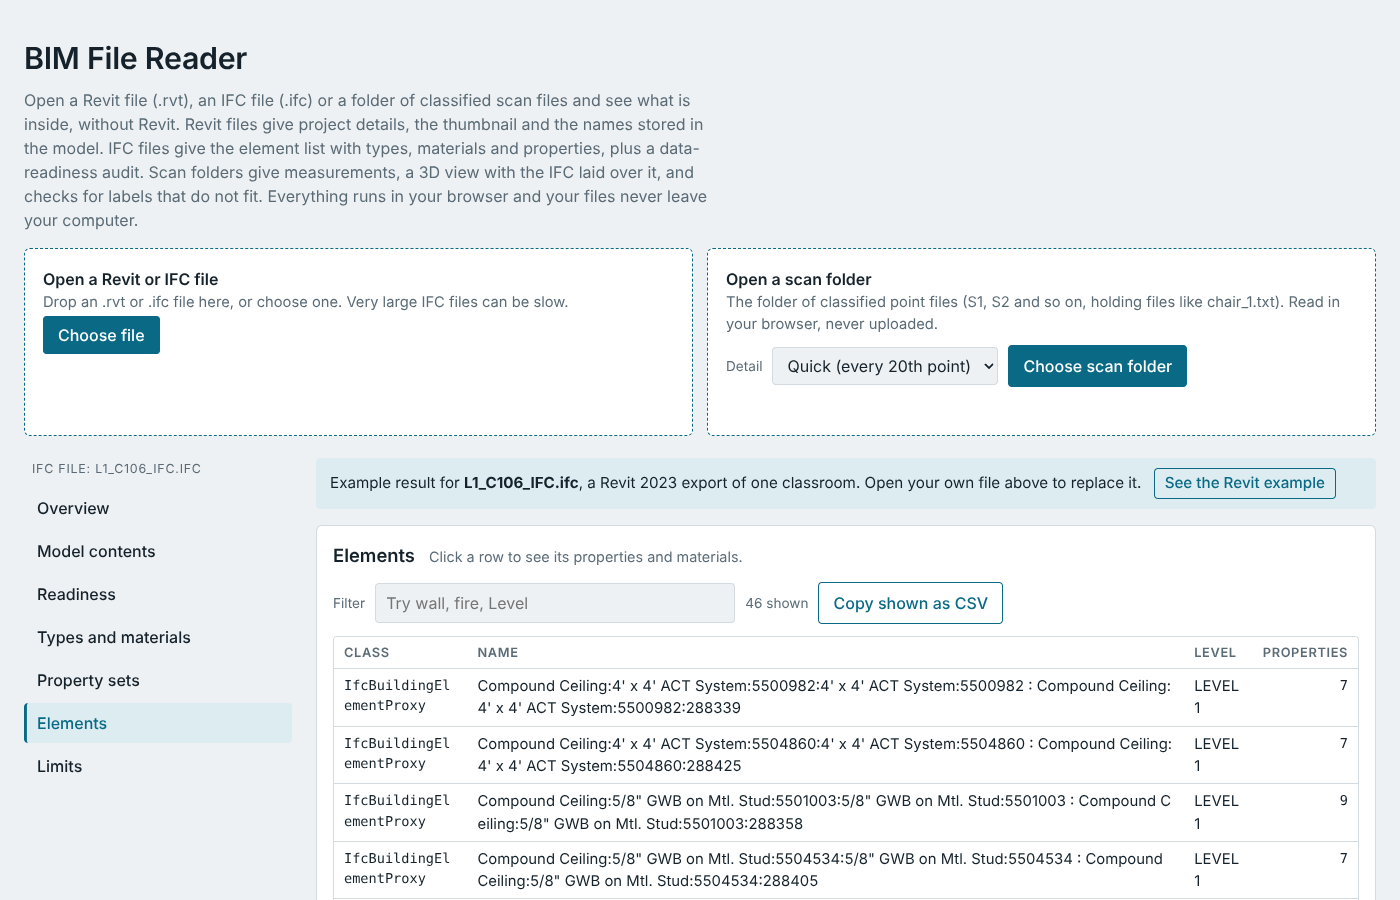
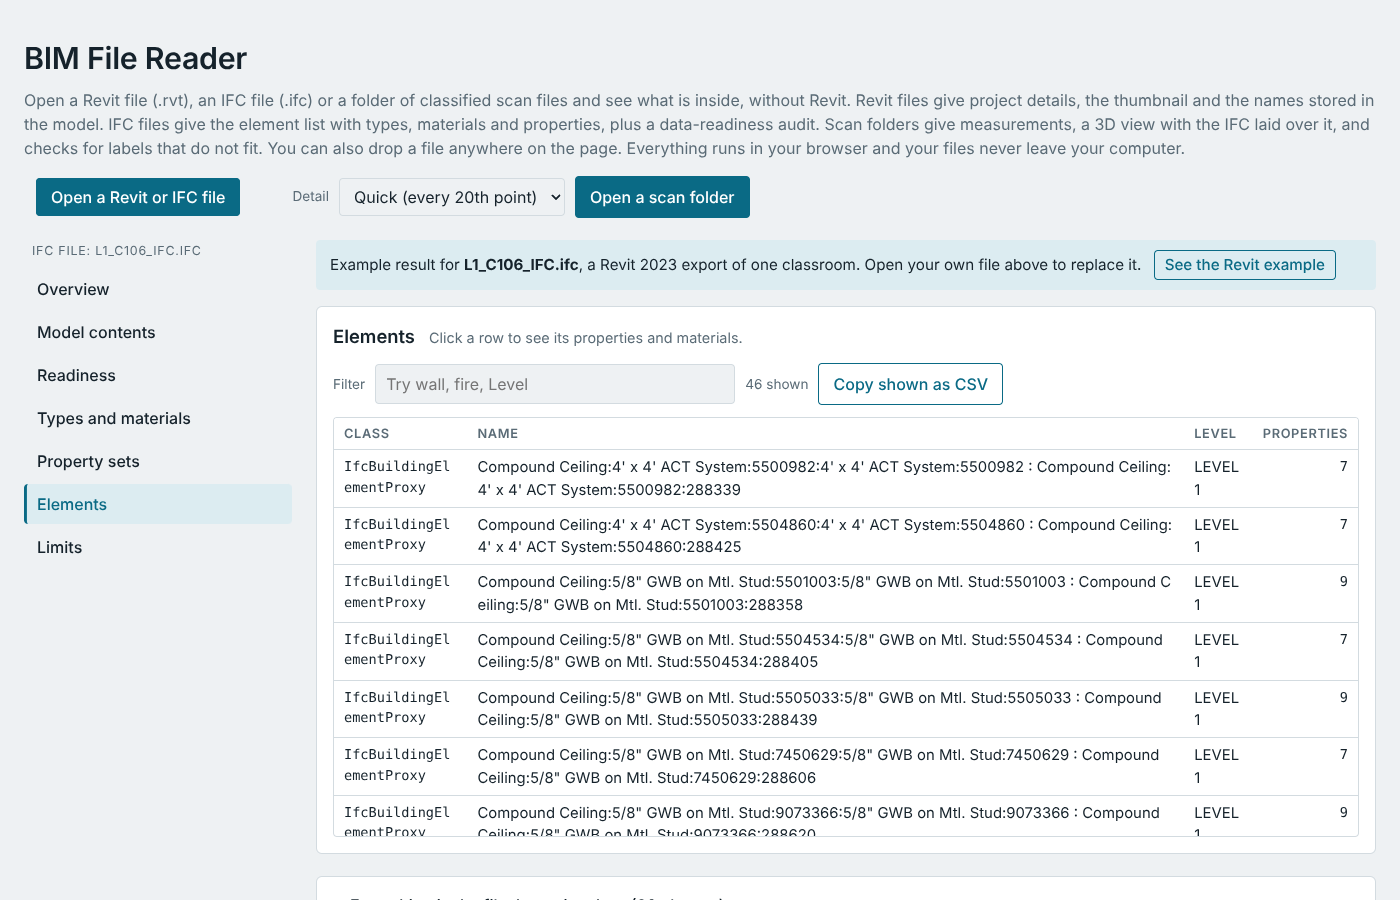
Replace header boxes with toolbar buttons; move 3D click hint under the image
Claude-Session: https://claude.ai/code/session_01EhrZVCndNZQfJK6kUnVYUM

diff --git a/dist/index.html b/dist/index.html
@@ -115,14 +115,19 @@ details summary { cursor: pointer; font-weight: 500; }
 .app { display: grid; grid-template-columns: 270px minmax(0, 1fr); gap: 22px; align-items: start; }
 .side { position: sticky; top: 14px; max-height: calc(100vh - 28px); overflow-y: auto; display: flex; flex-direction: column; gap: 14px; padding-right: 2px; }
 .main { min-width: 0; }
-.openrow { display: grid; grid-template-columns: repeat(2, minmax(0, 1fr)); gap: 14px; margin-top: 16px; }
-.openrow .drop { flex-direction: column; align-items: flex-start; justify-content: flex-start; gap: 10px; }
-.openrow .drop > div { flex: none !important; width: 100%; }
-header.loaded .lede, header.loaded .drop .hint { display: none; }
+.openrow { display: flex; flex-wrap: wrap; align-items: center; gap: 10px 28px; margin-top: 16px; }
+.openrow .drop { background: none; border: 0; padding: 0; border-radius: 4px; display: flex; flex-wrap: wrap; align-items: center; justify-content: flex-start; gap: 6px 12px; }
+.openrow .drop.over { outline: 2px dashed var(--accent); outline-offset: 4px; }
+.openrow .drop > div { flex: none !important; }
+.openrow .ttl, .openrow .hint { display: none; }
+.openrow .status:empty { display: none; }
+.openrow .status { min-height: 0; }
+.openrow .progress { width: 220px; }
+header .lede { max-width: none; }
+header.loaded .lede { display: none; }
 header.loaded .openrow { margin-top: 10px; }
-header.loaded .drop { padding: 10px 14px; }
 .now { font-weight: 600; overflow-wrap: anywhere; }
-.now small { display: block; font-weight: 400; color: var(--muted); }
+.now small { font-weight: 400; color: var(--muted); margin-left: 8px; }
 .nav { display: flex; flex-direction: column; gap: 3px; }
 .navtitle { font-size: 0.78rem; text-transform: uppercase; letter-spacing: 0.06em; color: var(--muted); padding: 2px 8px 6px; overflow-wrap: anywhere; }
 .navbtn { display: flex; justify-content: space-between; align-items: center; gap: 8px; text-align: left; width: 100%; background: transparent; color: var(--fg); border: 0; border-left: 3px solid transparent; border-radius: 4px; padding: 8px 10px; font-weight: 500; }
@@ -135,11 +140,14 @@ header.loaded .drop { padding: 10px 14px; }
 .screen[hidden] { display: none; }
 .v2 { display: grid; grid-template-columns: minmax(0, 1fr) 300px; gap: 12px; align-items: start; }
 .v2 .selbox { margin-top: 0; }
+.v2:has(.selbox[hidden]) { grid-template-columns: minmax(0, 1fr); }
 @media (max-width: 1150px) { .v2 { grid-template-columns: minmax(0, 1fr); } .v2 .selbox { margin-top: 10px; } }
 @media (max-width: 900px) {
   .app { grid-template-columns: minmax(0, 1fr); }
-  .openrow { grid-template-columns: minmax(0, 1fr); }
   .side { position: static; max-height: none; overflow: visible; }
+  .openrow { flex-direction: column; align-items: stretch; }
+  .openrow .drop, .openrow .drop > div { min-width: 0; max-width: 100%; }
+  .openrow .search { max-width: 100%; }
   .nav { flex-direction: row; overflow-x: auto; gap: 6px; padding-bottom: 4px; }
   .navtitle { display: none; }
   .navbtn { width: auto; white-space: nowrap; border: 1px solid var(--rule); border-left-width: 1px; }
@@ -161,7 +169,7 @@ tr.det td { background: var(--bg); }
 <div class="wrap">
   <header>
     <h1>BIM File Reader</h1>
-    <p class="lede">Open a Revit file (.rvt), an IFC file (.ifc) or a folder of classified scan files and see what is inside, without Revit. Revit files give project details, the thumbnail and the names stored in the model. IFC files give the element list with types, materials and properties, plus a data-readiness audit. Scan folders give measurements, a 3D view with the IFC laid over it, and checks for labels that do not fit. Everything runs in your browser and your files never leave your computer.</p>
+    <p class="lede">Open a Revit file (.rvt), an IFC file (.ifc) or a folder of classified scan files and see what is inside, without Revit. Revit files give project details, the thumbnail and the names stored in the model. IFC files give the element list with types, materials and properties, plus a data-readiness audit. Scan folders give measurements, a 3D view with the IFC laid over it, and checks for labels that do not fit. You can also drop a file anywhere on the page. Everything runs in your browser and your files never leave your computer.</p>
   <div class="openrow" id="openrow">
   <div class="drop" id="drop">
     <div>
@@ -169,7 +177,7 @@ tr.det td { background: var(--bg); }
       <div class="hint">Drop an .rvt or .ifc file here, or choose one. Very large IFC files can be slow.</div>
     </div>
     <div>
-      <label for="file" class="btn" id="pick" role="button" tabindex="0"><span class="lbl">Choose file</span></label>
+      <label for="file" class="btn" id="pick" role="button" tabindex="0"><span class="lbl">Open a Revit or IFC file</span></label>
       <input type="file" id="file" accept=".rvt,.ifc">
     </div>
     <div style="flex-basis:100%">
@@ -186,7 +194,7 @@ tr.det td { background: var(--bg); }
     <div style="display:flex;flex-wrap:wrap;gap:10px;align-items:center">
       <label for="mode" class="cap">Detail</label>
       <select id="mode" class="search" style="width:auto"><option value="20">Quick (every 20th point)</option><option value="1">Exact (every point)</option></select>
-      <label for="dir" class="btn" id="dirpick" role="button" tabindex="0"><span class="lbl">Choose scan folder</span></label>
+      <label for="dir" class="btn" id="dirpick" role="button" tabindex="0"><span class="lbl">Open a scan folder</span></label>
       <input type="file" id="dir" webkitdirectory multiple>
     </div>
     <div style="flex-basis:100%">
@@ -2014,7 +2022,7 @@ tr.det td { background: var(--bg); }
       groups.push({ cls, n: g.n, xyz, rgb, color: classColor(cls), ranges });
     }
     for (const o of objs) o.pts = null;
-    $('vsel').innerHTML = SEL_HINT;
+    $('vsel').innerHTML = ''; $('vsel').hidden = true;
     const total = groups.reduce((a, g) => a + g.n, 0);
     const info = $('vinfo');
     if (!groups.length) { info.textContent = 'No points to show.'; return; }
@@ -2039,10 +2047,10 @@ tr.det td { background: var(--bg); }
     setupOverlay(res, groups);
   }
 
-  const SEL_HINT = '<span class="cap">Click a point in the 3D view to see which scan object it belongs to and its measurements.</span>';
   function showSel(p) {
     const box = $('vsel');
-    if (!p) { box.innerHTML = SEL_HINT; return; }
+    if (!p) { box.innerHTML = ''; box.hidden = true; return; }
+    box.hidden = false;
     const o = p.range.obj;
     box.innerHTML = '<div class="head" style="margin-bottom:6px"><h3 style="margin:0;font-size:1rem">' + swatch(o.rgb) + esc(o.name) + ' <span class="tag">' + esc(o.slice) + '</span></h3><button class="ghost" type="button" id="vclear">Clear selection</button></div>' +
       '<div class="kvs"><span>Class</span><span>' + esc(o.cls) + '</span><span>Points</span><span>' + fmtN(o.points) + '</span>' +
@@ -2210,8 +2218,9 @@ tr.det td { background: var(--bg); }
       '<button class="ghost" type="button" id="vreset">Reset view</button><button class="ghost" type="button" id="vall">All on</button><button class="ghost" type="button" id="vnone">All off</button><span class="cap" id="vinfo"></span></div>' +
       '<div id="vclasses" class="tools" style="gap:6px 14px"></div>' +
       '<div id="ovbox" style="margin:8px 0"></div>' +
-      '<div class="v2"><div class="vwrap"><canvas id="vcanvas" aria-label="3D point cloud of the scanned room"></canvas></div>' +
-      '<div id="vsel" class="selbox" aria-live="polite"></div></div></section>';
+      '<div class="v2"><div><div class="vwrap"><canvas id="vcanvas" aria-label="3D point cloud of the scanned room"></canvas></div>' +
+      '<p class="cap" id="vhint" style="margin-top:8px">Click a point in the 3D view to see which scan object it belongs to and its measurements.</p></div>' +
+      '<div id="vsel" class="selbox" aria-live="polite" hidden></div></div></section>';
     html += '<div data-screen="Summary"></div>';
     html += '<div class="grid2"><section class="card"><div class="head"><h2>Scan summary</h2>' + copyBtn('sfacts', ['Field', 'Value'], facts) + '</div>';
     html += '<div class="tw"><table><tbody>' + facts.map(f => '<tr><td class="k">' + esc(f[0]) + '</td><td class="mono wrapany">' + esc(f[1]) + '</td></tr>').join('') + '</tbody></table></div>';
@@ -2339,8 +2348,7 @@ tr.det td { background: var(--bg); }
   function markOpen(which, name, detail) {
     const box = $(which === 'scan' ? 'scanbox' : 'drop'), now = $(which === 'scan' ? 'nowscan' : 'nowfile');
     now.hidden = false; now.innerHTML = esc(name) + (detail ? '<small>' + esc(detail) + '</small>' : '');
-    box.querySelector('.ttl').hidden = true;
-    box.querySelector('.lbl').textContent = which === 'scan' ? 'Open a different scan folder' : 'Open a different Revit or IFC file';
+        box.querySelector('.lbl').textContent = which === 'scan' ? 'Choose another scan folder' : 'Choose another file';
     document.querySelector('header').classList.add('loaded');
   }
   async function loadScan(files) {
@@ -2418,7 +2426,7 @@ tr.det td { background: var(--bg); }
         r.fileName = file.name; r.fileSize = file.size;
         renderIfc(r, null);
         markOpen('file', file.name, 'IFC file, ' + fmtBytes(file.size));
-        st.textContent = 'Loaded ' + file.name;
+        st.textContent = '';
         setTimeout(() => { pw.hidden = true; }, 600);
         window.scrollTo({ top: $('out').offsetTop - 12, behavior: 'smooth' });
         return;
@@ -2428,7 +2436,7 @@ tr.det td { background: var(--bg); }
       const vm = RVT.viewModel(res, 0);
       render(vm, null);
       markOpen('file', file.name, 'Revit file, ' + fmtBytes(file.size));
-      st.textContent = 'Loaded ' + file.name;
+      st.textContent = '';
       setTimeout(() => { pw.hidden = true; }, 600);
       window.scrollTo({ top: $('out').offsetTop - 12, behavior: 'smooth' });
     } catch (e) {
@@ -2443,9 +2451,9 @@ tr.det td { background: var(--bg); }
   const drop = $('drop'), inp = $('file');
   inp.addEventListener('change', () => { if (inp.files[0]) load(inp.files[0]); });
   $('pick').addEventListener('keydown', e => { if (e.key === 'Enter' || e.key === ' ') { e.preventDefault(); inp.click(); } });
-  ['dragenter', 'dragover'].forEach(t => drop.addEventListener(t, e => { e.preventDefault(); drop.classList.add('over'); }));
-  ['dragleave', 'drop'].forEach(t => drop.addEventListener(t, e => { e.preventDefault(); drop.classList.remove('over'); }));
-  drop.addEventListener('drop', e => { const f = e.dataTransfer.files[0]; if (f) load(f); });
+  ['dragenter', 'dragover'].forEach(t => document.addEventListener(t, e => { e.preventDefault(); drop.classList.add('over'); }));
+  ['dragleave', 'drop'].forEach(t => document.addEventListener(t, e => { e.preventDefault(); drop.classList.remove('over'); }));
+  document.addEventListener('drop', e => { const f = e.dataTransfer.files[0]; if (f) load(f); });
 
   const GO_IFC = ' <button class="ghost" type="button" data-go="ifc" style="margin-left:8px;padding:3px 10px">See the IFC example</button>';
   const GO_RVT = ' <button class="ghost" type="button" data-go="rvt" style="margin-left:8px;padding:3px 10px">See the Revit example</button>';

diff --git a/src/template.html b/src/template.html
@@ -110,14 +110,19 @@ details summary { cursor: pointer; font-weight: 500; }
 .app { display: grid; grid-template-columns: 270px minmax(0, 1fr); gap: 22px; align-items: start; }
 .side { position: sticky; top: 14px; max-height: calc(100vh - 28px); overflow-y: auto; display: flex; flex-direction: column; gap: 14px; padding-right: 2px; }
 .main { min-width: 0; }
-.openrow { display: grid; grid-template-columns: repeat(2, minmax(0, 1fr)); gap: 14px; margin-top: 16px; }
-.openrow .drop { flex-direction: column; align-items: flex-start; justify-content: flex-start; gap: 10px; }
-.openrow .drop > div { flex: none !important; width: 100%; }
-header.loaded .lede, header.loaded .drop .hint { display: none; }
+.openrow { display: flex; flex-wrap: wrap; align-items: center; gap: 10px 28px; margin-top: 16px; }
+.openrow .drop { background: none; border: 0; padding: 0; border-radius: 4px; display: flex; flex-wrap: wrap; align-items: center; justify-content: flex-start; gap: 6px 12px; }
+.openrow .drop.over { outline: 2px dashed var(--accent); outline-offset: 4px; }
+.openrow .drop > div { flex: none !important; }
+.openrow .ttl, .openrow .hint { display: none; }
+.openrow .status:empty { display: none; }
+.openrow .status { min-height: 0; }
+.openrow .progress { width: 220px; }
+header .lede { max-width: none; }
+header.loaded .lede { display: none; }
 header.loaded .openrow { margin-top: 10px; }
-header.loaded .drop { padding: 10px 14px; }
 .now { font-weight: 600; overflow-wrap: anywhere; }
-.now small { display: block; font-weight: 400; color: var(--muted); }
+.now small { font-weight: 400; color: var(--muted); margin-left: 8px; }
 .nav { display: flex; flex-direction: column; gap: 3px; }
 .navtitle { font-size: 0.78rem; text-transform: uppercase; letter-spacing: 0.06em; color: var(--muted); padding: 2px 8px 6px; overflow-wrap: anywhere; }
 .navbtn { display: flex; justify-content: space-between; align-items: center; gap: 8px; text-align: left; width: 100%; background: transparent; color: var(--fg); border: 0; border-left: 3px solid transparent; border-radius: 4px; padding: 8px 10px; font-weight: 500; }
@@ -130,11 +135,14 @@ header.loaded .drop { padding: 10px 14px; }
 .screen[hidden] { display: none; }
 .v2 { display: grid; grid-template-columns: minmax(0, 1fr) 300px; gap: 12px; align-items: start; }
 .v2 .selbox { margin-top: 0; }
+.v2:has(.selbox[hidden]) { grid-template-columns: minmax(0, 1fr); }
 @media (max-width: 1150px) { .v2 { grid-template-columns: minmax(0, 1fr); } .v2 .selbox { margin-top: 10px; } }
 @media (max-width: 900px) {
   .app { grid-template-columns: minmax(0, 1fr); }
-  .openrow { grid-template-columns: minmax(0, 1fr); }
   .side { position: static; max-height: none; overflow: visible; }
+  .openrow { flex-direction: column; align-items: stretch; }
+  .openrow .drop, .openrow .drop > div { min-width: 0; max-width: 100%; }
+  .openrow .search { max-width: 100%; }
   .nav { flex-direction: row; overflow-x: auto; gap: 6px; padding-bottom: 4px; }
   .navtitle { display: none; }
   .navbtn { width: auto; white-space: nowrap; border: 1px solid var(--rule); border-left-width: 1px; }
@@ -156,7 +164,7 @@ tr.det td { background: var(--bg); }
 <div class="wrap">
   <header>
     <h1>BIM File Reader</h1>
-    <p class="lede">Open a Revit file (.rvt), an IFC file (.ifc) or a folder of classified scan files and see what is inside, without Revit. Revit files give project details, the thumbnail and the names stored in the model. IFC files give the element list with types, materials and properties, plus a data-readiness audit. Scan folders give measurements, a 3D view with the IFC laid over it, and checks for labels that do not fit. Everything runs in your browser and your files never leave your computer.</p>
+    <p class="lede">Open a Revit file (.rvt), an IFC file (.ifc) or a folder of classified scan files and see what is inside, without Revit. Revit files give project details, the thumbnail and the names stored in the model. IFC files give the element list with types, materials and properties, plus a data-readiness audit. Scan folders give measurements, a 3D view with the IFC laid over it, and checks for labels that do not fit. You can also drop a file anywhere on the page. Everything runs in your browser and your files never leave your computer.</p>
   <div class="openrow" id="openrow">
   <div class="drop" id="drop">
     <div>
@@ -164,7 +172,7 @@ tr.det td { background: var(--bg); }
       <div class="hint">Drop an .rvt or .ifc file here, or choose one. Very large IFC files can be slow.</div>
     </div>
     <div>
-      <label for="file" class="btn" id="pick" role="button" tabindex="0"><span class="lbl">Choose file</span></label>
+      <label for="file" class="btn" id="pick" role="button" tabindex="0"><span class="lbl">Open a Revit or IFC file</span></label>
       <input type="file" id="file" accept=".rvt,.ifc">
     </div>
     <div style="flex-basis:100%">
@@ -181,7 +189,7 @@ tr.det td { background: var(--bg); }
     <div style="display:flex;flex-wrap:wrap;gap:10px;align-items:center">
       <label for="mode" class="cap">Detail</label>
       <select id="mode" class="search" style="width:auto"><option value="20">Quick (every 20th point)</option><option value="1">Exact (every point)</option></select>
-      <label for="dir" class="btn" id="dirpick" role="button" tabindex="0"><span class="lbl">Choose scan folder</span></label>
+      <label for="dir" class="btn" id="dirpick" role="button" tabindex="0"><span class="lbl">Open a scan folder</span></label>
       <input type="file" id="dir" webkitdirectory multiple>
     </div>
     <div style="flex-basis:100%">
@@ -555,7 +563,7 @@ tr.det td { background: var(--bg); }
       groups.push({ cls, n: g.n, xyz, rgb, color: classColor(cls), ranges });
     }
     for (const o of objs) o.pts = null;
-    $('vsel').innerHTML = SEL_HINT;
+    $('vsel').innerHTML = ''; $('vsel').hidden = true;
     const total = groups.reduce((a, g) => a + g.n, 0);
     const info = $('vinfo');
     if (!groups.length) { info.textContent = 'No points to show.'; return; }
@@ -580,10 +588,10 @@ tr.det td { background: var(--bg); }
     setupOverlay(res, groups);
   }
 
-  const SEL_HINT = '<span class="cap">Click a point in the 3D view to see which scan object it belongs to and its measurements.</span>';
   function showSel(p) {
     const box = $('vsel');
-    if (!p) { box.innerHTML = SEL_HINT; return; }
+    if (!p) { box.innerHTML = ''; box.hidden = true; return; }
+    box.hidden = false;
     const o = p.range.obj;
     box.innerHTML = '<div class="head" style="margin-bottom:6px"><h3 style="margin:0;font-size:1rem">' + swatch(o.rgb) + esc(o.name) + ' <span class="tag">' + esc(o.slice) + '</span></h3><button class="ghost" type="button" id="vclear">Clear selection</button></div>' +
       '<div class="kvs"><span>Class</span><span>' + esc(o.cls) + '</span><span>Points</span><span>' + fmtN(o.points) + '</span>' +
@@ -751,8 +759,9 @@ tr.det td { background: var(--bg); }
       '<button class="ghost" type="button" id="vreset">Reset view</button><button class="ghost" type="button" id="vall">All on</button><button class="ghost" type="button" id="vnone">All off</button><span class="cap" id="vinfo"></span></div>' +
       '<div id="vclasses" class="tools" style="gap:6px 14px"></div>' +
       '<div id="ovbox" style="margin:8px 0"></div>' +
-      '<div class="v2"><div class="vwrap"><canvas id="vcanvas" aria-label="3D point cloud of the scanned room"></canvas></div>' +
-      '<div id="vsel" class="selbox" aria-live="polite"></div></div></section>';
+      '<div class="v2"><div><div class="vwrap"><canvas id="vcanvas" aria-label="3D point cloud of the scanned room"></canvas></div>' +
+      '<p class="cap" id="vhint" style="margin-top:8px">Click a point in the 3D view to see which scan object it belongs to and its measurements.</p></div>' +
+      '<div id="vsel" class="selbox" aria-live="polite" hidden></div></div></section>';
     html += '<div data-screen="Summary"></div>';
     html += '<div class="grid2"><section class="card"><div class="head"><h2>Scan summary</h2>' + copyBtn('sfacts', ['Field', 'Value'], facts) + '</div>';
     html += '<div class="tw"><table><tbody>' + facts.map(f => '<tr><td class="k">' + esc(f[0]) + '</td><td class="mono wrapany">' + esc(f[1]) + '</td></tr>').join('') + '</tbody></table></div>';
@@ -880,8 +889,7 @@ tr.det td { background: var(--bg); }
   function markOpen(which, name, detail) {
     const box = $(which === 'scan' ? 'scanbox' : 'drop'), now = $(which === 'scan' ? 'nowscan' : 'nowfile');
     now.hidden = false; now.innerHTML = esc(name) + (detail ? '<small>' + esc(detail) + '</small>' : '');
-    box.querySelector('.ttl').hidden = true;
-    box.querySelector('.lbl').textContent = which === 'scan' ? 'Open a different scan folder' : 'Open a different Revit or IFC file';
+        box.querySelector('.lbl').textContent = which === 'scan' ? 'Choose another scan folder' : 'Choose another file';
     document.querySelector('header').classList.add('loaded');
   }
   async function loadScan(files) {
@@ -959,7 +967,7 @@ tr.det td { background: var(--bg); }
         r.fileName = file.name; r.fileSize = file.size;
         renderIfc(r, null);
         markOpen('file', file.name, 'IFC file, ' + fmtBytes(file.size));
-        st.textContent = 'Loaded ' + file.name;
+        st.textContent = '';
         setTimeout(() => { pw.hidden = true; }, 600);
         window.scrollTo({ top: $('out').offsetTop - 12, behavior: 'smooth' });
         return;
@@ -969,7 +977,7 @@ tr.det td { background: var(--bg); }
       const vm = RVT.viewModel(res, 0);
       render(vm, null);
       markOpen('file', file.name, 'Revit file, ' + fmtBytes(file.size));
-      st.textContent = 'Loaded ' + file.name;
+      st.textContent = '';
       setTimeout(() => { pw.hidden = true; }, 600);
       window.scrollTo({ top: $('out').offsetTop - 12, behavior: 'smooth' });
     } catch (e) {
@@ -984,9 +992,9 @@ tr.det td { background: var(--bg); }
   const drop = $('drop'), inp = $('file');
   inp.addEventListener('change', () => { if (inp.files[0]) load(inp.files[0]); });
   $('pick').addEventListener('keydown', e => { if (e.key === 'Enter' || e.key === ' ') { e.preventDefault(); inp.click(); } });
-  ['dragenter', 'dragover'].forEach(t => drop.addEventListener(t, e => { e.preventDefault(); drop.classList.add('over'); }));
-  ['dragleave', 'drop'].forEach(t => drop.addEventListener(t, e => { e.preventDefault(); drop.classList.remove('over'); }));
-  drop.addEventListener('drop', e => { const f = e.dataTransfer.files[0]; if (f) load(f); });
+  ['dragenter', 'dragover'].forEach(t => document.addEventListener(t, e => { e.preventDefault(); drop.classList.add('over'); }));
+  ['dragleave', 'drop'].forEach(t => document.addEventListener(t, e => { e.preventDefault(); drop.classList.remove('over'); }));
+  document.addEventListener('drop', e => { const f = e.dataTransfer.files[0]; if (f) load(f); });
 
   const GO_IFC = ' <button class="ghost" type="button" data-go="ifc" style="margin-left:8px;padding:3px 10px">See the IFC example</button>';
   const GO_RVT = ' <button class="ghost" type="button" data-go="rvt" style="margin-left:8px;padding:3px 10px">See the Revit example</button>';

diff --git a/tests/pw2.js b/tests/pw2.js
@@ -13,11 +13,11 @@ const {chromium}=require('playwright');
  await pg.screenshot({path:'shot_ifc_sample.png',fullPage:true});
  // live load
  await pg.setInputFiles('#file',(process.env.BIM_SAMPLES||'samples')+'/BIM sample/L1_C106_IFC.ifc');
- await pg.waitForFunction(()=>document.getElementById('status').textContent==='Loaded L1_C106_IFC.ifc'||document.getElementById('status').className.includes('err'));
+ await pg.waitForFunction(()=>document.getElementById('nowfile').textContent.startsWith('L1_C106_IFC.ifc')||document.getElementById('status').className.includes('err'));
  console.log(await pg.textContent('#status'), await pg.textContent('#ecount'));
  await pg.fill('#eq','fire'); console.log('fire filter',await pg.textContent('#ecount'));
  await pg.setInputFiles('#file',(process.env.BIM_SAMPLES||'samples')+'/Revit Sample projects/rstbasicsampleproject.rvt');
- await pg.waitForFunction(()=>document.getElementById('status').textContent==='Loaded rstbasicsampleproject.rvt');
+ await pg.waitForFunction(()=>document.getElementById('nowfile').textContent.startsWith('rstbasicsampleproject.rvt'));
  console.log('rvt ok', await pg.textContent('#status'));
  await pg.setViewportSize({width:390,height:800});
  console.log('overflow390', await pg.evaluate(()=>document.documentElement.scrollWidth>document.documentElement.clientWidth));

diff --git a/README.md b/README.md
@@ -14,7 +14,7 @@ Everything runs in the browser. No file is uploaded anywhere.
 
 1. Open `dist/index.html` in Chrome, Edge or Firefox (double-click it, or serve the folder from any static web host).
 2. The page opens with built-in examples (a Revit sample and an IFC sample), so you can look around before loading anything.
-3. Load your own file with the two Open boxes at the top of the page.
+3. Load your own file with the buttons under the title.
 
 The page loads one small library (pako 1.0.11) from cdnjs, so it needs an internet connection the first time.
 
@@ -22,7 +22,7 @@ You do not need Node, Python or Revit to use it. Those are only needed if you ch
 
 ## Using it
 
-The two Open boxes at the top of the page load a Revit or IFC file, or a scan folder. Once something is loaded the intro text folds away and each box shows the name of what you opened, with a button to open a different one. Below that the page has a menu on the left and one screen at a time on the right. The menu lists the screens for whatever is loaded, and the page remembers the last screen you used for each kind of file. On a phone the menu sits above the screen and the list of screens scrolls sideways.
+The page opens with two buttons under the title: one for a Revit or IFC file, one for a scan folder. You can also drop a file anywhere on the page. Once something is loaded the intro text folds away and the title row shows the name of what you opened, with a "Choose another file" button and the scan folder button beside it. The page below has a menu on the left and one screen at a time on the right. The menu lists the screens for whatever is loaded, and the page remembers the last screen you used for each kind of file. On a phone the menu sits above the screen and the list of screens scrolls sideways.
 
 | File type | Screens |
 |---|---|
